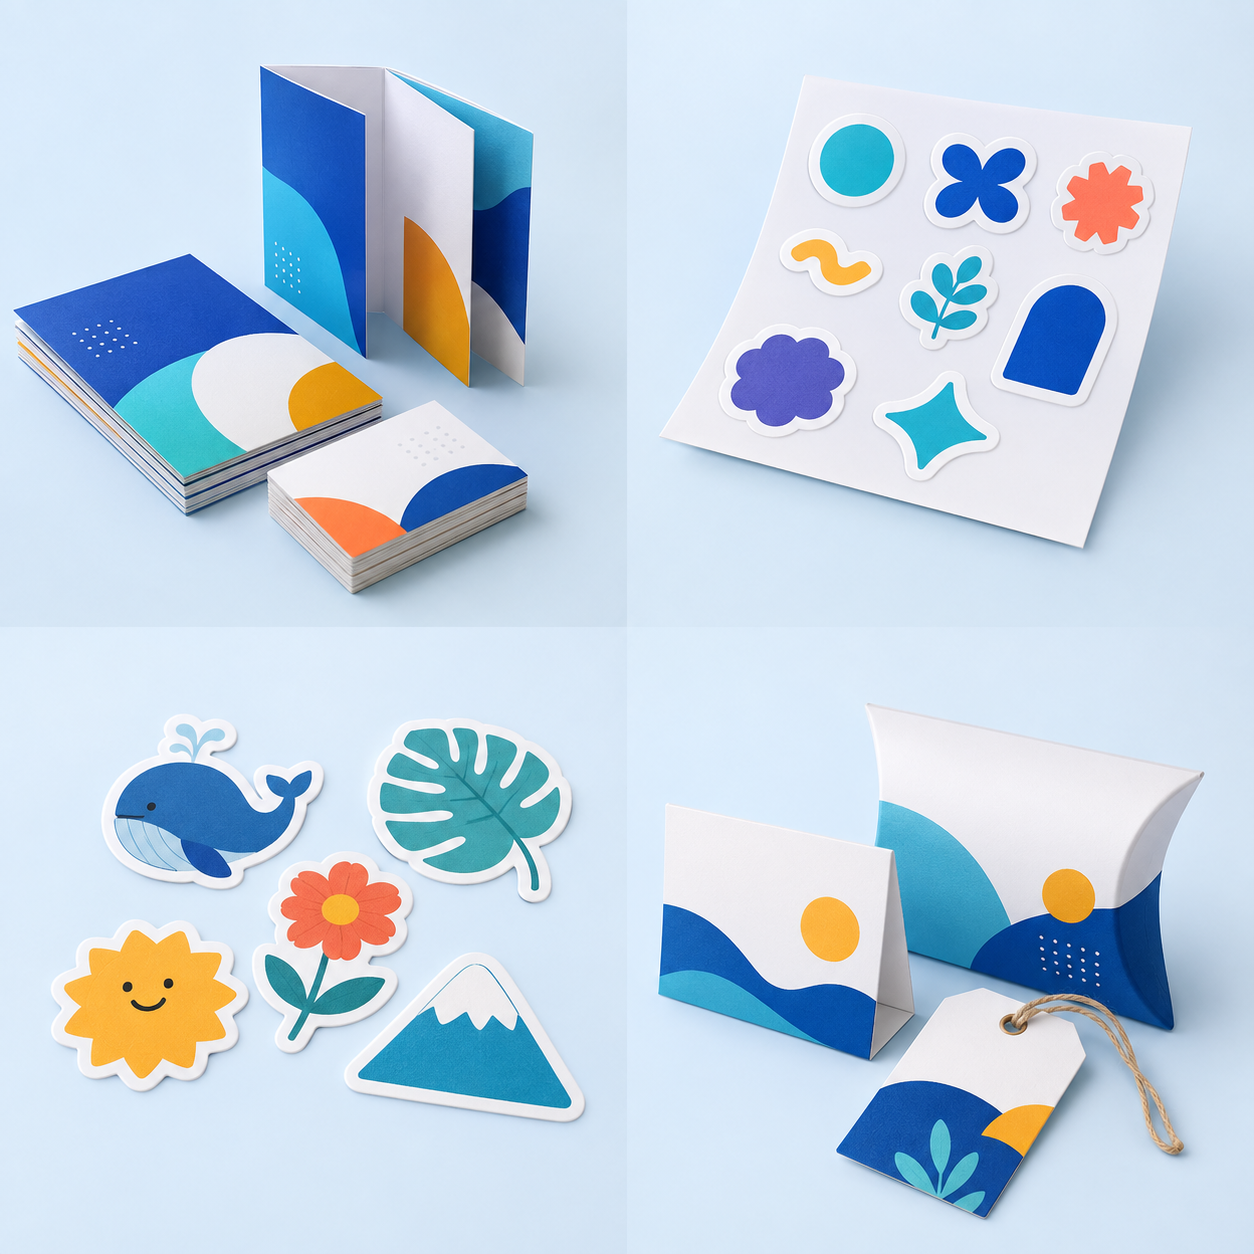
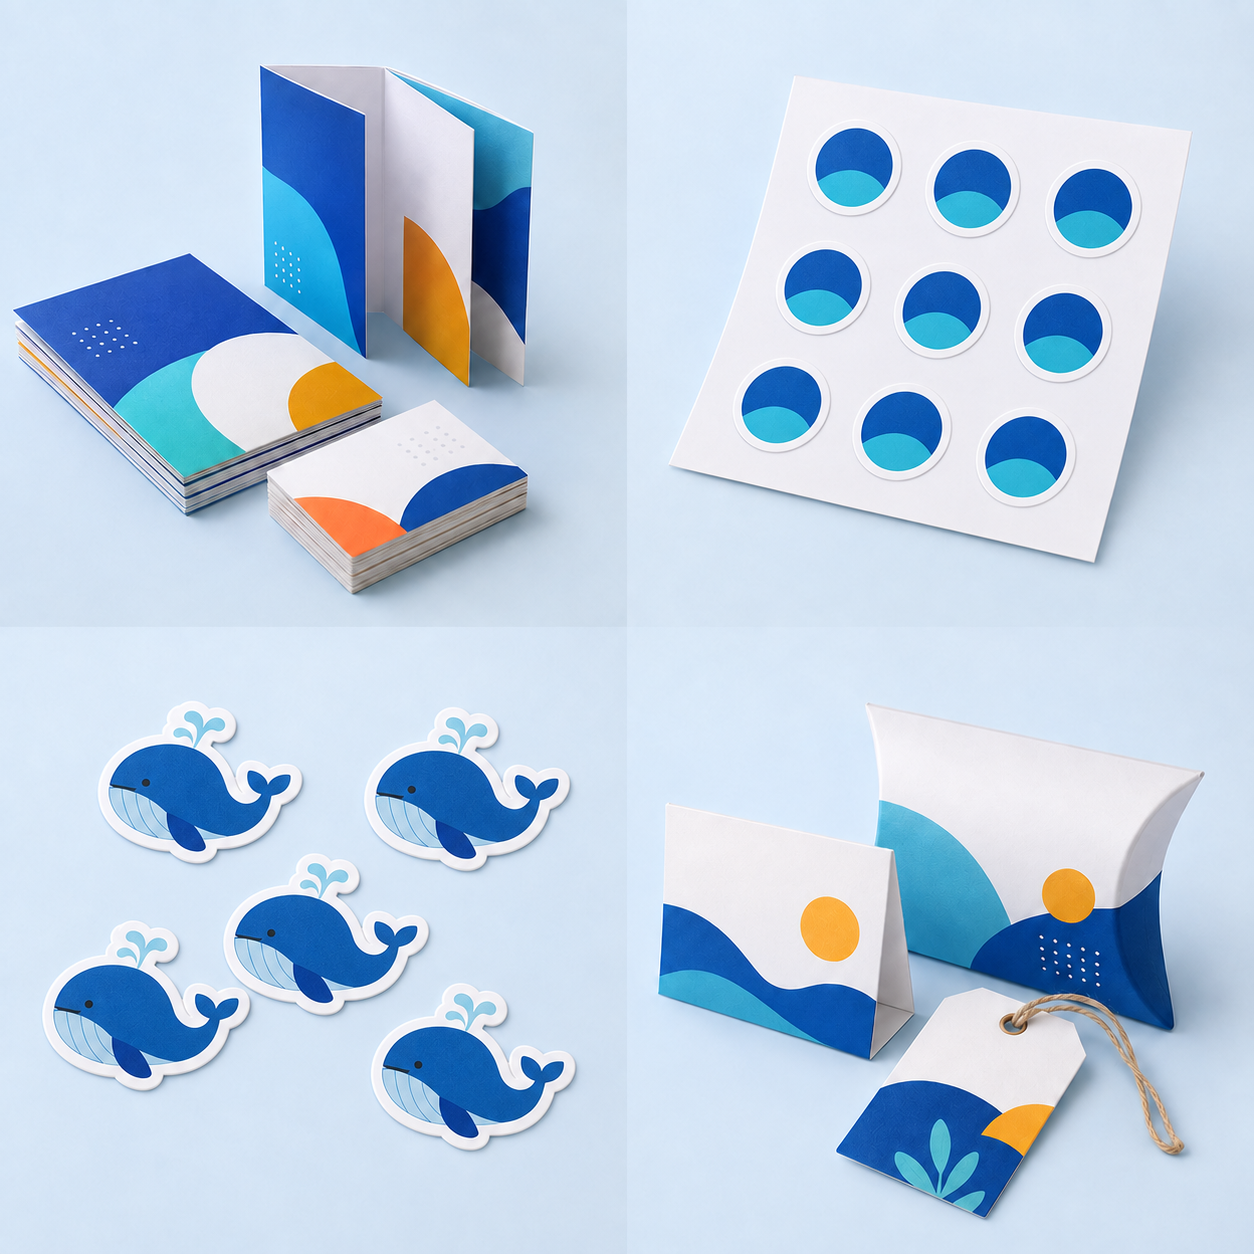
Clarify single-design sticker examples

diff --git a/iprint-plus-cost-calculator/css/app.css b/iprint-plus-cost-calculator/css/app.css
@@ -328,7 +328,7 @@ html{background:#dce9f5}body{padding:0;background:#dce9f5;color:#080808}.mobile-
 .cost-sheet-preview.is-piece-preview.has-rounded-preview{border-radius:12%}
 .job-setup-view.is-active{display:flex;min-height:calc(100vh - 150px);align-items:flex-start;justify-content:center;padding-top:24px}.job-quiz-shell{width:min(100%,620px);padding:20px;border:1px solid var(--flow-border);border-radius:18px;background:#fff;box-shadow:0 18px 38px rgba(6,59,112,.12)}.job-quiz-top{display:flex;align-items:center;justify-content:space-between;gap:12px}.job-quiz-top button{display:inline-flex;align-items:center;gap:6px;padding:8px;border:0;background:transparent;color:var(--flow-muted);font-size:12px;font-weight:800}.job-quiz-top button:last-child{color:#075c9b}.job-quiz-progress{display:grid;grid-template-columns:1fr 1fr;gap:7px;margin:16px 0 24px}.job-quiz-progress i{height:5px;border-radius:999px;background:#dceaf5}.job-quiz-progress i.is-active{background:var(--flow-blue)}.job-quiz-question{display:none}.job-quiz-question.is-active{display:block}.job-quiz-question>small{color:var(--flow-blue);font-size:12px;font-weight:900;letter-spacing:.04em}.job-quiz-question h1{margin:8px 0 0;color:var(--flow-navy);font-size:25px;line-height:1.3}.job-quiz-question>p{margin:8px 0 20px;color:var(--flow-muted);font-size:14px;line-height:1.55}.job-quiz-options{display:grid;grid-template-columns:repeat(2,minmax(0,1fr));gap:10px}.job-quiz-options button{min-height:54px;padding:10px 14px;border:1px solid #b6d5eb;border-radius:12px;background:#f8fbff;color:#164e78;font-size:15px;font-weight:800;text-align:left}.job-quiz-options button:hover,.job-quiz-options button.is-selected{border-color:var(--flow-blue);background:#eaf6ff;color:#064f87;box-shadow:0 4px 12px rgba(10,140,255,.14)}.job-quiz-question>label{display:block;margin-bottom:7px;color:var(--flow-navy);font-size:14px;font-weight:800}.job-quiz-question>label span{color:var(--flow-muted);font-weight:600}.job-quiz-question>input{height:52px;font-size:16px}.job-quiz-actions{display:grid;grid-template-columns:minmax(120px,.7fr) minmax(180px,1.3fr);gap:10px;margin-top:18px}.job-quiz-actions>button:first-child{display:flex;align-items:center;justify-content:center;gap:7px;border:1px solid var(--flow-border);border-radius:10px;background:#fff;color:var(--flow-navy);font-weight:800}.job-name-field .label span{color:var(--flow-muted);font-weight:600}.job-name-hint{display:block;margin-top:5px;color:var(--flow-muted);font-size:12px;line-height:1.4}
 @media(max-width:520px){.job-setup-view.is-active{padding-top:12px}.job-quiz-shell{padding:16px;border-radius:14px}.job-quiz-question h1{font-size:21px}.job-quiz-options{grid-template-columns:1fr 1fr}.job-quiz-options button{min-height:48px;font-size:14px}.job-quiz-actions{grid-template-columns:1fr}}
-.job-quiz-options button{display:grid;grid-template-columns:64px minmax(0,1fr);align-items:center;gap:12px;padding:8px;text-align:left}.job-type-thumb{display:block;width:64px;aspect-ratio:1;border-radius:9px;background-image:url('../image/job-type-examples.png');background-repeat:no-repeat;background-size:200% 200%;box-shadow:inset 0 0 0 1px rgba(6,79,135,.1);overflow:hidden}.job-type-thumb-paper{background-position:0 0}.job-type-thumb-kisscut{background-position:100% 0}.job-type-thumb-diecut{background-position:0 100%}.job-type-thumb-other{background-position:100% 100%}
+.job-quiz-options button{display:grid;grid-template-columns:64px minmax(0,1fr);align-items:center;gap:12px;padding:8px;text-align:left}.job-type-thumb{display:block;width:64px;aspect-ratio:1;border-radius:9px;background-image:url('../image/job-type-examples.png?v=20260907-single-design');background-repeat:no-repeat;background-size:200% 200%;box-shadow:inset 0 0 0 1px rgba(6,79,135,.1);overflow:hidden}.job-type-thumb-paper{background-position:0 0}.job-type-thumb-kisscut{background-position:100% 0}.job-type-thumb-diecut{background-position:0 100%}.job-type-thumb-other{background-position:100% 100%}
 @media(max-width:520px){.job-quiz-options button{grid-template-columns:48px minmax(0,1fr);gap:8px;padding:6px}.job-type-thumb{width:48px;border-radius:7px}}
 .job-quiz-shell{width:min(100%,780px)}.job-quiz-conversation{display:grid;grid-template-columns:170px minmax(0,1fr);align-items:end;gap:18px}.job-quiz-mascot{display:grid;align-content:end;justify-items:center;margin:0}.job-quiz-mascot img{display:block;width:168px;max-height:330px;object-fit:contain;filter:drop-shadow(0 14px 14px rgba(6,59,112,.16));transform-origin:50% 100%;transition:transform .28s ease}.job-quiz-mascot figcaption{display:grid;justify-items:center;margin-top:-4px;padding:7px 12px;border:1px solid #b7d9ef;border-radius:999px;background:#fff;box-shadow:0 5px 14px rgba(6,59,112,.1)}.job-quiz-mascot strong{color:var(--flow-navy);font-size:12px}.job-quiz-mascot span{color:var(--flow-muted);font-size:10px}.job-quiz-dialogue{position:relative;min-width:0;padding:20px;border:1px solid #9fcdeb;border-radius:18px;background:linear-gradient(145deg,#f4faff,#fff);box-shadow:0 10px 25px rgba(6,59,112,.1)}.job-quiz-dialogue::before{content:'';position:absolute;left:-13px;bottom:45px;width:24px;height:24px;border-left:1px solid #9fcdeb;border-bottom:1px solid #9fcdeb;background:#f8fcff;transform:rotate(45deg)}.job-quiz-dialogue>*{position:relative;z-index:1}.job-quiz-shell.is-question-2 .job-quiz-mascot img{transform:rotate(-2deg) translateY(-4px)}
 @media(max-width:767px){.job-quiz-conversation{grid-template-columns:minmax(0,1fr);gap:8px}.job-quiz-mascot{grid-template-columns:86px minmax(0,auto);align-items:center;justify-content:start}.job-quiz-mascot img{width:82px;max-height:112px}.job-quiz-mascot figcaption{justify-items:start;margin:0 0 0 -4px}.job-quiz-dialogue{min-width:0;padding:16px}.job-quiz-dialogue::before{top:-10px;bottom:auto;left:34px;border:0;border-top:1px solid #9fcdeb;border-left:1px solid #9fcdeb}}
